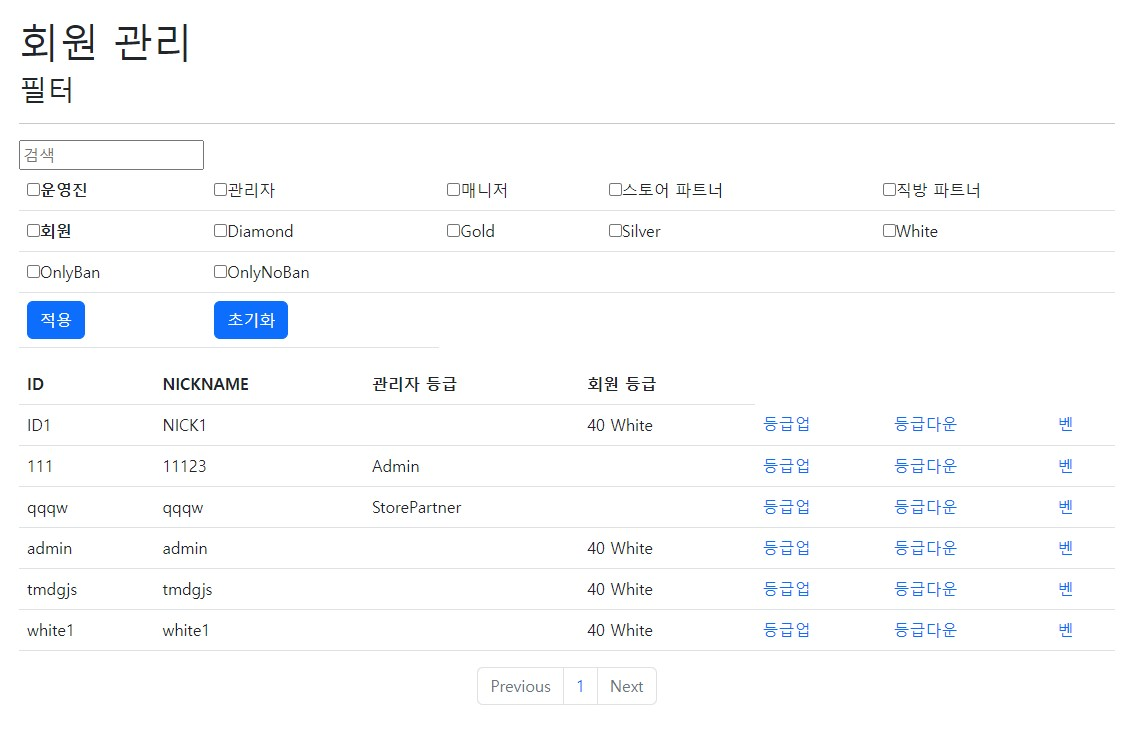
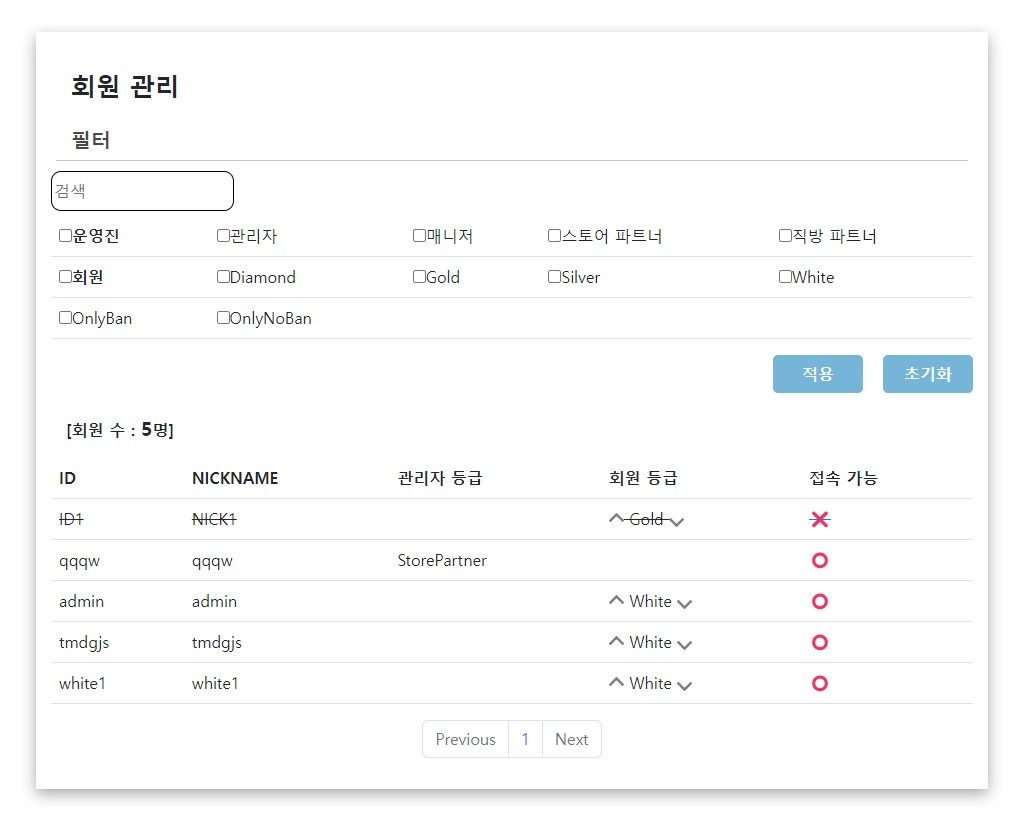
Fix header

diff --git a/src/main/webapp/resources/js/member.js b/src/main/webapp/resources/js/member.js
@@ -1016,6 +1016,20 @@ function profile() {
 
 
 
+    const profileinfoDiv =  document.querySelector("#pf-userAct");
+    const rank = document.querySelector("#rank");
+    profileinfoDiv.addEventListener("click",function(){
+
+
+        rank.click();
+
+
+    })
+
+
+
+
+
 }
 
 
@@ -1288,7 +1302,6 @@ function delivery(){
 
 function deliveryDetail(){
 
-    console.log("h i deliveryDetail");
 
     const deliBtn = document.getElementsByClassName("order-deliveryDetail");
     const buyBtn = document.getElementsByClassName("order-buyDetail");
@@ -1312,6 +1325,13 @@ function deliveryDetail(){
         })
     }
    
+
+    const deStatus = document.getElementsByClassName("deStatus");
+
+
+
+
+
 
   
 

diff --git a/src/main/webapp/resources/css/admin/admin.css b/src/main/webapp/resources/css/admin/admin.css
@@ -83,3 +83,12 @@ select::-ms-expand {
 	-o-transform:scale(1.2);
 	transform:scale(1.2);
 }
+
+.boardBlueBtn{
+	background-color: #61b6dc;
+	width: 90px;
+	border-radius: 5px;
+	border: 0;
+	color: #f7f9fa;
+	height: 38px;
+}

diff --git a/src/main/webapp/resources/css/board/board.css b/src/main/webapp/resources/css/board/board.css
@@ -103,7 +103,7 @@ section{
 .noQnaAnswerComment{
 	margin: 0 auto ;
 	width:auto;
-
+	min-width: 250px;
 }
 .boardList{
 

diff --git a/src/main/java/com/goodee/home/member/MemberController.java b/src/main/java/com/goodee/home/member/MemberController.java
@@ -456,9 +456,33 @@ public class MemberController {
 		ModelAndView mv = new ModelAndView();
 		MemberDTO memberDTO = (MemberDTO) session.getAttribute("member");
 	
-		
+		int [] stat= new int[] {0,0,0,0,0,0};
 		
 		List<OrderDTO> ar =memberService.getOrder(memberDTO);
+		for(OrderDTO dto : ar ) {
+			String status = dto.getDeliveryStatus();
+			
+			
+			
+			if(status.equals("입금대기")) {
+				stat[0]++;
+			}else if(status.equals("결제완료")) {
+				stat[1]++;
+			}else if(status.equals("배송준비")) {
+				stat[2]++;
+			}else if(status.equals("배송중")) {
+				stat[3]++;
+			}else if(status.equals("배송완료")) {
+				stat[4]++;
+			}else if(status.equals("구매확정")) {
+				stat[5]++;
+			}
+			
+			
+			
+		}
+		mv.addObject("stat",stat);
+		
 		
 		
 		String [] url = request.getServletPath().split("/");

diff --git a/src/main/java/com/goodee/home/admin/AdminController.java b/src/main/java/com/goodee/home/admin/AdminController.java
@@ -45,9 +45,11 @@ public class AdminController {
 		
 		
 		List<MemberDTO> ar = adminSerivece.getMember(pager);
+		Long totalCount=adminSerivece.getMemberCount(pager);
+		
 		List<RoleDTO> rr = adminSerivece.getRole();
 		
-		
+		mv.addObject("totalCount",totalCount);
 		mv.addObject("search",pager.getSearch());
 		mv.addObject("pager",pager);
 		mv.addObject("roleList",rr);
@@ -72,13 +74,13 @@ public class AdminController {
 			
 		}
 		
-		if(page.getSearch() != null) {
+		if(page.getSearch() != null ) {
 			
 			url += "search=";
 			url += page.getSearch();
 			url += "&";
 		
-	}
+		}
 		if(page.getMemberFilter() != null) {
 			for (String i : page.getMemberFilter()) {
 				url += "memberFilter=";

diff --git a/src/main/java/com/goodee/home/util/Pager.java b/src/main/java/com/goodee/home/util/Pager.java
@@ -31,12 +31,7 @@ public class Pager {
 	private String userId;
 	
 	
-	
-	
-	
-	
-	
-	
+
 	public String getUserId() {
 		return userId;
 	}
